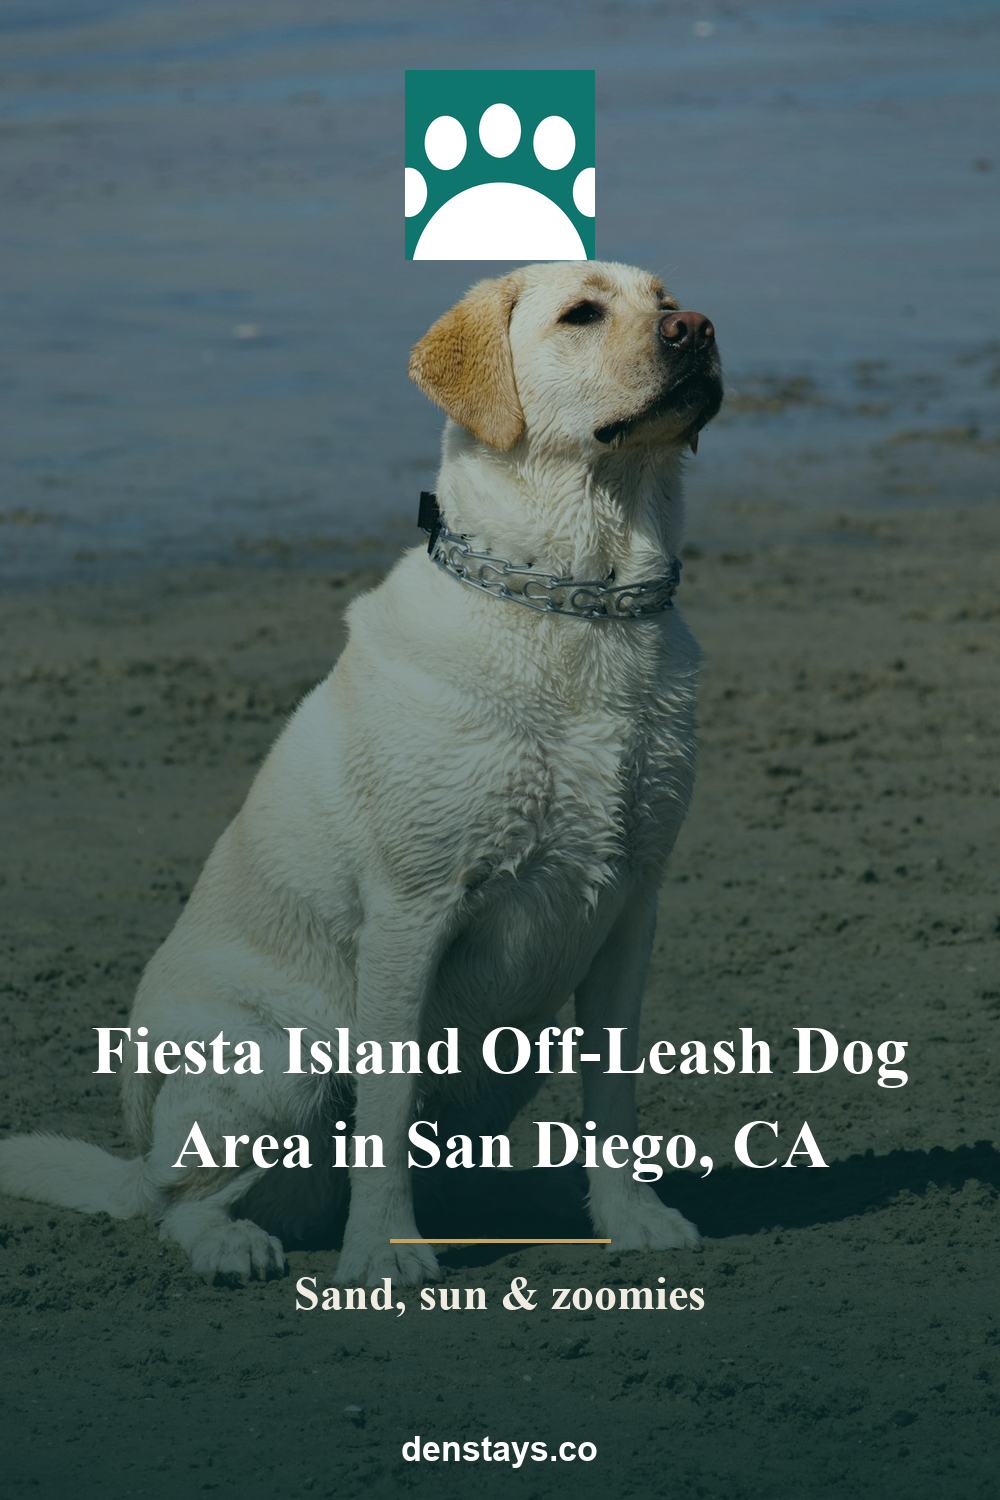
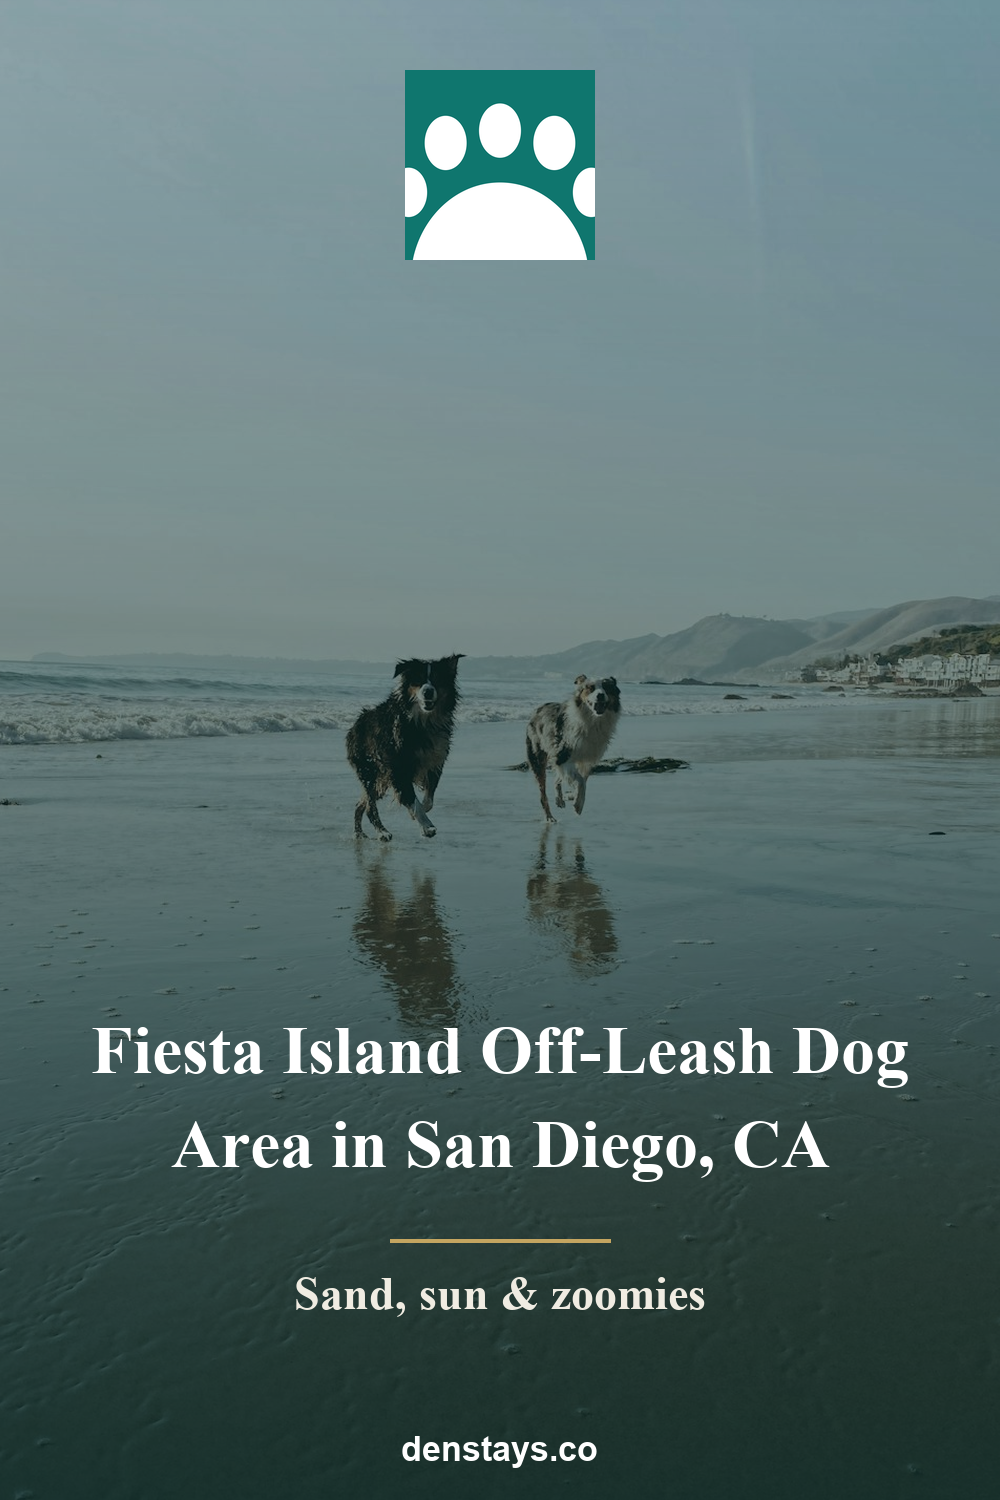
Approve 7 new pins (auto-review); re-render san-diego-fiesta-island photo; update gallery

diff --git a/pins/index.html b/pins/index.html
@@ -891,7 +891,7 @@ code { font-size:12px; color:#888; }
         <div class="card">
           <img src="austin-luxury-weight-limits.png" alt="Luxury Pet-Friendly Hotels in Austin: Check the Weight Limit">
           <div class="meta">
-            <span class="status" style="background:#c4a560">draft</span>
+            <span class="status" style="background:#2e7d5b">ready</span>
             <span class="type">teal · luxury-weight-limits</span>
             <h3>Luxury Pet-Friendly Hotels in Austin: Check the Weight Limit</h3>
             <code>austin-luxury-weight-limits</code>
@@ -900,7 +900,7 @@ code { font-size:12px; color:#888; }
         <div class="card">
           <img src="denver-historic-hotels.png" alt="Historic Pet-Friendly Hotels in Denver, CO">
           <div class="meta">
-            <span class="status" style="background:#c4a560">draft</span>
+            <span class="status" style="background:#2e7d5b">ready</span>
             <span class="type">band · historic-hotels</span>
             <h3>Historic Pet-Friendly Hotels in Denver, CO</h3>
             <code>denver-historic-hotels</code>
@@ -909,7 +909,7 @@ code { font-size:12px; color:#888; }
         <div class="card">
           <img src="asheville-give-back.png" alt="Pet-Friendly Asheville Hotel That Gives Back">
           <div class="meta">
-            <span class="status" style="background:#c4a560">draft</span>
+            <span class="status" style="background:#2e7d5b">ready</span>
             <span class="type">photo · give-back</span>
             <h3>Pet-Friendly Asheville Hotel That Gives Back</h3>
             <code>asheville-give-back</code>
@@ -918,7 +918,7 @@ code { font-size:12px; color:#888; }
         <div class="card">
           <img src="austin-lake-travis.png" alt="Pet-Friendly Lake Travis Getaway Near Austin, TX">
           <div class="meta">
-            <span class="status" style="background:#c4a560">draft</span>
+            <span class="status" style="background:#2e7d5b">ready</span>
             <span class="type">photo · lake-getaway</span>
             <h3>Pet-Friendly Lake Travis Getaway Near Austin, TX</h3>
             <code>austin-lake-travis</code>
@@ -927,7 +927,7 @@ code { font-size:12px; color:#888; }
         <div class="card">
           <img src="boulder-off-leash-tags.png" alt="Off-Leash Dog Hiking in Boulder, CO: Voice & Sight Tags">
           <div class="meta">
-            <span class="status" style="background:#c4a560">draft</span>
+            <span class="status" style="background:#2e7d5b">ready</span>
             <span class="type">teal · off-leash-rules</span>
             <h3>Off-Leash Dog Hiking in Boulder, CO: Voice & Sight Tags</h3>
             <code>boulder-off-leash-tags</code>
@@ -936,7 +936,7 @@ code { font-size:12px; color:#888; }
         <div class="card">
           <img src="san-diego-fiesta-island.png" alt="Fiesta Island Off-Leash Dog Area in San Diego, CA">
           <div class="meta">
-            <span class="status" style="background:#c4a560">draft</span>
+            <span class="status" style="background:#2e7d5b">ready</span>
             <span class="type">photo · off-leash-park</span>
             <h3>Fiesta Island Off-Leash Dog Area in San Diego, CA</h3>
             <code>san-diego-fiesta-island</code>
@@ -945,7 +945,7 @@ code { font-size:12px; color:#888; }
         <div class="card">
           <img src="savannah-fall-weekend.png" alt="Fall Weekend in Savannah, GA with Your Dog">
           <div class="meta">
-            <span class="status" style="background:#c4a560">draft</span>
+            <span class="status" style="background:#2e7d5b">ready</span>
             <span class="type">band · fall-weekend</span>
             <h3>Fall Weekend in Savannah, GA with Your Dog</h3>
             <code>savannah-fall-weekend</code>
